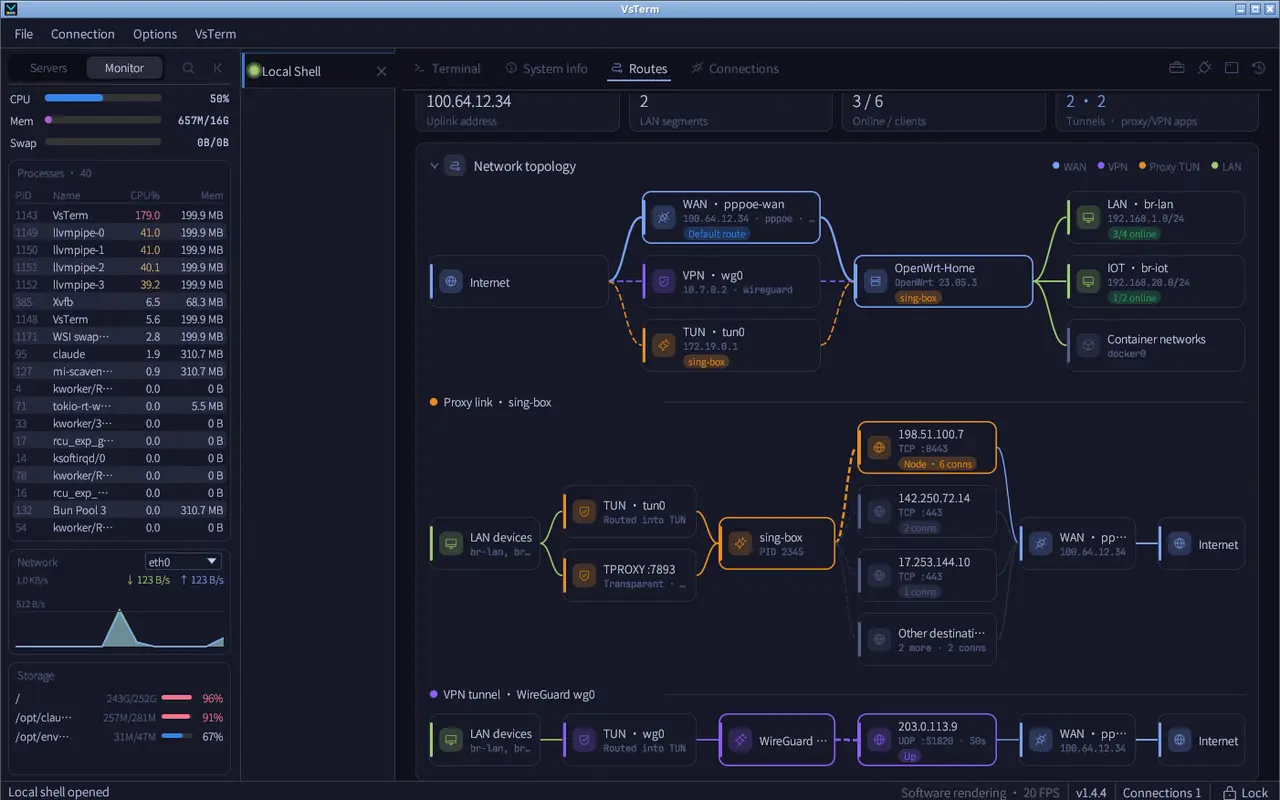
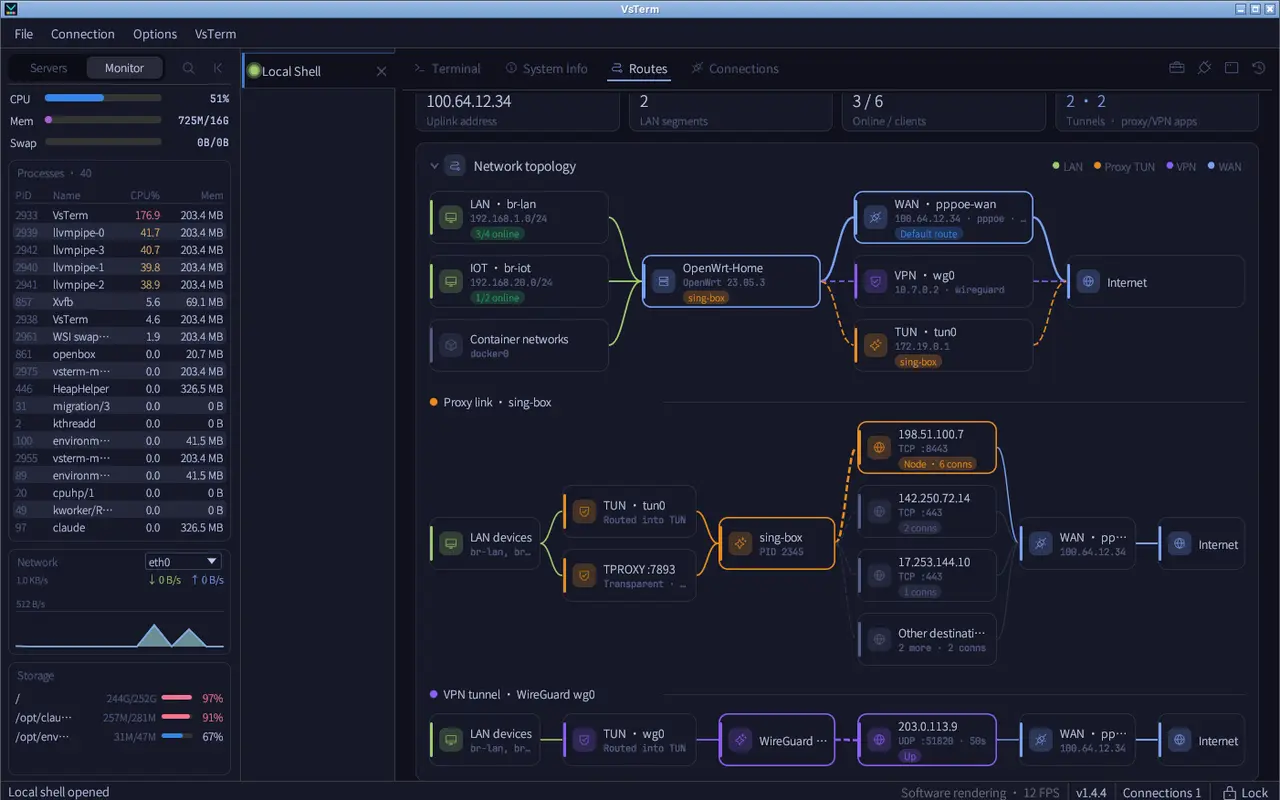
Sync docs from private release v1.4.5

diff --git a/CHANGELOG.md b/CHANGELOG.md
@@ -8,6 +8,20 @@ On each `v*` tag, CI also syncs `README.md`, `README.zh-CN.md`, `CHANGELOG.md`,
 and `LICENSE` to the public `vesaaa/vsterm` main branch, and copies this file’s
 section for that version into the GitHub Release notes.
 
+## [1.4.5] — 2026-10-14
+
+### Changed
+- **Route Info topology reads left to right**, the same way as the proxy / VPN lanes: LAN segments → this host → WAN / VPN / proxy TUN uplinks → Internet. The legend follows the same order.
+- **Redesigned SSH tunnels panel** (plug button, top right) to match System Info and Route Info: each tunnel is a card with its type, listen → destination address, status chip and start / stop / copy-SOCKS buttons; errors show under the row, the footer shows how many tunnels are up, and rows keep a stable order.
+
+### Removed
+- **Policy graph** view in Route Info. Its content is covered by the Overview topology and the policy-rules card, so Route Info now has Overview and Route tables only.
+
+### 中文
+- **调整**：路由信息的网络拓扑改为从左到右，与代理 / VPN 链路方向一致：局域网 → 本机 → WAN / VPN / 代理 TUN → 互联网，图例顺序同步调整。
+- **调整**：重新设计右上角「SSH 隧道」面板，与系统信息、路由信息风格一致：每条隧道一张卡片，显示类型、监听 → 目标地址、状态标签，以及启动 / 停止 / 复制 SOCKS 地址按钮；出错信息显示在卡片下方，底部显示运行数量，列表顺序固定。
+- **移除**：路由信息中的「策略图」视图。其内容已由「概览」拓扑和路由规则卡片覆盖，路由信息现在只保留「概览」和「路由表」。
+
 ## [1.4.4] — 2026-10-14
 
 ### Added
